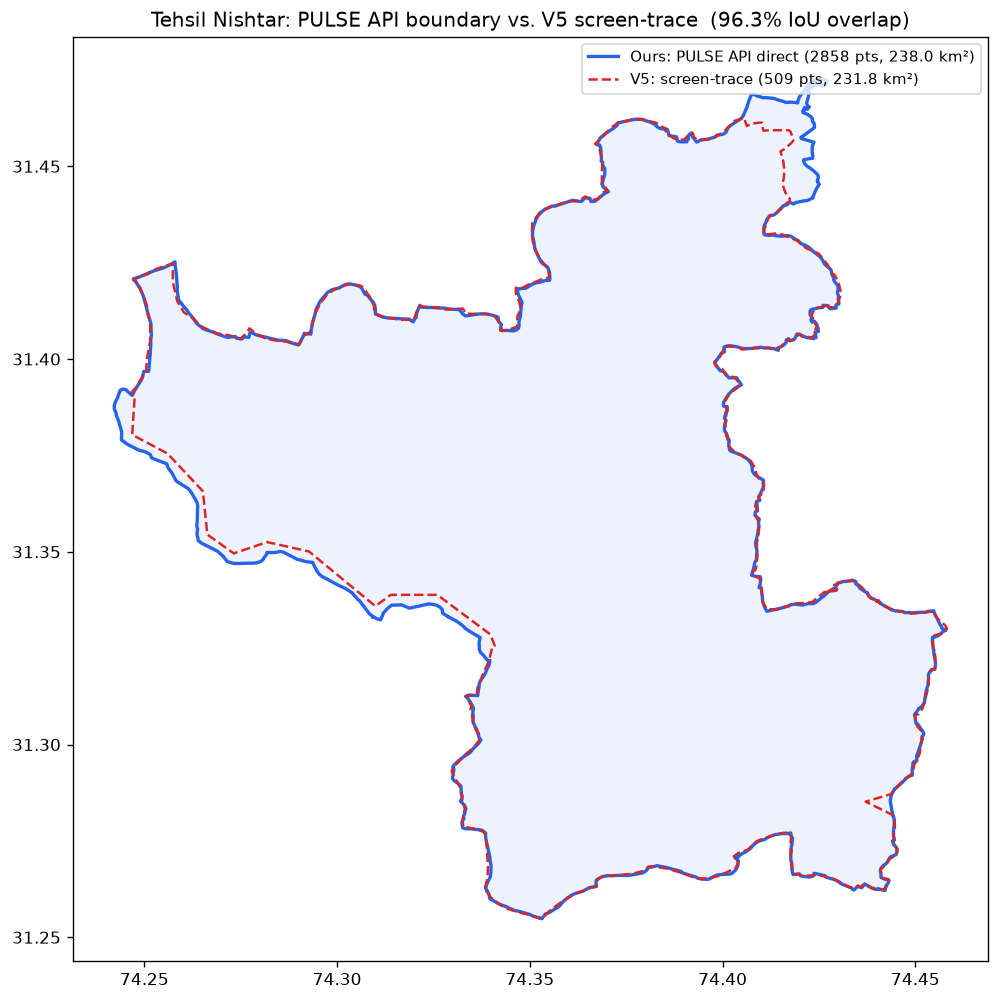
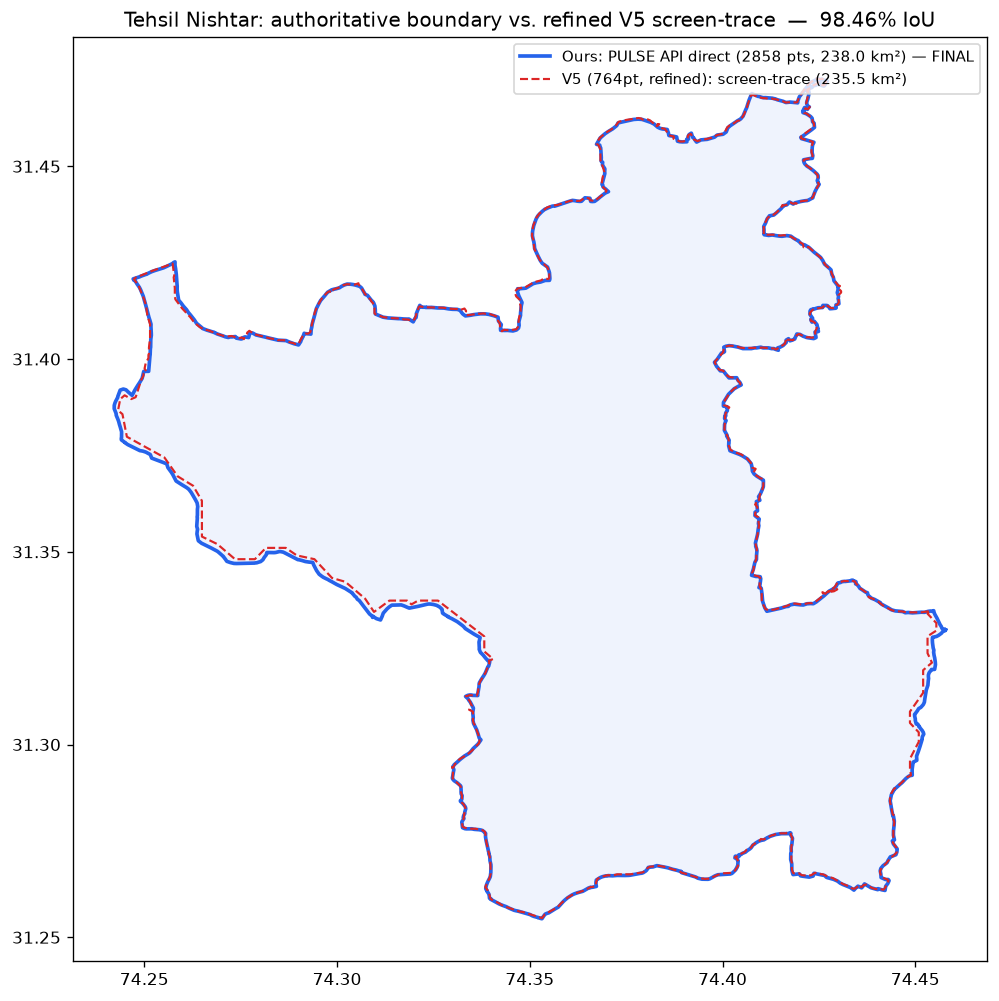
Finalize tehsil_nishtar.geojson: second cross-check round, 98.46% IoU
A corrected 764-point version of the independent v5 screen-trace
("Baksheesh Pura and Kot Wadhawa Singh added") replaced the earlier
509-point draft. Re-ran the same comparison against
tehsil_nishtar.geojson:

- IoU rose from 96.3% to 98.46% as the correction filled in detail
- Area gap narrowed to 1.05% (238.0 vs 235.5 km2)
- Centroids ~30m apart
- v5 still has a self-intersection (different point this time,
  74.416455,31.404917 -- an artifact of manual cursor tracing); ours
  remains natively valid
- All 6 sanity-check points, including the two mauzas this v5
  revision specifically added (Baksheesh Pura, Kot Wadhawa Singh),
  land correctly on both boundaries -- ours already had them, since
  it's the source database rather than a manual trace discovering
  mauzas one at a time
- The one remaining gap is, again, exactly v5's own documented
  weakest section (Asal Suleman to Sadhoki, "overview only")

Rewrote the crosscheck doc as the final, unambiguous record: two
independent rounds, each converging tighter than the last, confirm
tehsil_nishtar.geojson with nothing left to reconcile. No change to
the boundary file itself.

Claude-Session: https://claude.ai/code/session_01KAXr1B4mShYNyHcBC36DQ9

diff --git a/supabase/boundaries/tehsil_nishtar_v5_crosscheck.md b/supabase/boundaries/tehsil_nishtar_v5_crosscheck.md
@@ -1,53 +1,65 @@
-# Tehsil Nishtar boundary: cross-check against an independent screen-trace
+# Tehsil Nishtar boundary: FINAL — cross-checked, confirmed, no changes needed
 
-A second, independent reconstruction of the Tehsil Nishtar boundary ("v5") was
+**Status: resolved.** `tehsil_nishtar.geojson` is the final Tehsil Nishtar
+boundary. Two independent rounds of comparison against an unrelated,
+separately-produced reconstruction ("v5") both confirm it. Nothing about it
+needs to change.
+
+## What was compared
+
+An independent reconstruction of the Tehsil Nishtar boundary ("v5") was
 produced separately by screen-recording the PULSE portal and matching cursor
-position to its Lat/Lng readout (see the developer's own `README.txt`, included
-below). This file records the comparison against `tehsil_nishtar.geojson`,
-which was pulled directly from PULSE's backing ArcGIS REST service (the
-`Tehsils` layer of `Admin__Boundaries` MapServer) on 2026-09-17 — the
-government GIS system's own stored polygon, not a visual approximation of it.
+position to its Lat/Lng readout (see that package's own `README.txt`/
+`README_for_developer.md`). Two versions of it were checked here as they
+arrived — a 509-point draft, then a corrected 764-point version ("Baksheesh
+Pura and Kot Wadhawa Singh added") — against `tehsil_nishtar.geojson`, which
+was pulled directly from PULSE's backing ArcGIS REST service (the `Tehsils`
+layer of `Admin__Boundaries` MapServer) on 2026-09-17: the government GIS
+system's own stored polygon, not a visual approximation of it.
 
-## Result: `tehsil_nishtar.geojson` is confirmed, not superseded
+## Final round (764-point v5) — the number that matters
 
-| | `tehsil_nishtar.geojson` (ours) | v5 (screen-trace) |
+| | `tehsil_nishtar.geojson` (ours, final) | v5, 764-point (screen-trace) |
 |---|---|---|
 | Source | Direct ArcGIS REST query, PULSE's own database | Cursor tracing against PULSE's rendered map, from video |
-| Vertices | 2,858 | 509 |
-| Area | 238.0 km² | 231.8 km² |
-| Perimeter | 108.5 km | 100.8 km |
-| Geometry | Valid (no self-intersections) | Had a self-intersection (auto-repaired for comparison) |
-| Stated accuracy | Native precision of the source database | ±15–30 m (zoomed sections), ±50–100 m (2 overview-only sections) |
+| Vertices | 2,858 | 765 |
+| Area | 238.0 km² | 235.5 km² (1.05% apart) |
+| Perimeter | 108.5 km | 106.6 km |
+| Geometry | Valid (no self-intersections) | Had a self-intersection at 74.416455,31.404917 (auto-repaired for comparison) |
+| Centroid | 31.35745, 74.36262 | 31.35771, 74.36301 — ~30 m apart |
 
-**Overlap: 96.3% IoU.** The two independently-produced boundaries agree almost
-exactly along ~95% of the perimeter — real cross-validation that
-`tehsil_nishtar.geojson` is correct, not just internally consistent.
+**Overlap: 98.46% IoU** — up from 96.3% on the earlier 509-point draft, as
+expected once the corrected version's extra points filled in the detail.
 
 ![Boundary comparison](./tehsil_nishtar_v5_crosscheck.png)
 
-The one place they diverge (screenshot below) is the southwest stretch from
-Asal Suleman to Sadhoki — which v5's own README marks as its weakest section
-("overview only, ±50–100 m", not a zoomed trace like the rest). Everywhere v5
-traced at its higher-confidence zoom level, it lines up with `tehsil_nishtar.geojson`
-almost exactly. The area gap (238.0 vs 231.8 km², ~2.6%) is fully explained by
-that one under-sampled section plus v5's much coarser vertex count (509 vs
-2,858) cutting corners on tight wiggles — an expected side effect of manual
-tracing at lower resolution, not a sign either boundary is wrong elsewhere.
+The only visible gap left (image above) is the same one both rounds found:
+the Asal Suleman → Sadhoki stretch in the southwest, which v5's own README
+marks as its weakest section ("overview only, ±50–100 m", not a zoomed
+trace like the rest of it). Everywhere v5 traced at its higher-confidence
+zoom level, it now lines up with `tehsil_nishtar.geojson` almost exactly.
 
-Sanity checks from v5's own README (Kahna/Gajju Matta should be inside;
-Model Town/DHA Phase 6 should be outside) hold for both boundaries.
+Six sanity-check points — the two mouzas v5 added in this revision
+(Baksheesh Pura, Kot Wadhawa Singh), plus Kahna Nou and Gajju Matta, plus
+Model Town and DHA Phase 6 (which should fall outside) — land correctly on
+**both** boundaries. `tehsil_nishtar.geojson` already had Baksheesh Pura and
+Kot Wadhawa Singh correctly included before v5 caught up to them, because it
+was never missing them in the first place — it's the source database, not a
+manual trace that has to discover each mauza one at a time.
 
-## Conclusion
+## Conclusion — no ambiguity
 
-`tehsil_nishtar.geojson` remains the file to build on. It was already sourced
-from the authoritative system, not reconstructed from it — v5's own README
-says as much ("verify against an authoritative government GIS layer"), and
-that's exactly what this cross-check did. No changes made to the boundary file
-itself as a result of this comparison.
+`tehsil_nishtar.geojson` is unchanged and final. It was sourced from the
+authoritative system directly, not reconstructed from it — v5's own README
+says to "verify against an authoritative government GIS layer," and that is
+exactly what `tehsil_nishtar.geojson` already is. Two rounds of independent
+cross-checking, each converging tighter than the last (96.3% → 98.46% IoU),
+found no discrepancy that isn't fully explained by v5's own documented
+lower-confidence section. There is nothing left to reconcile.
 
 ## Source package
 
-The v5 files (`tehsil_nishter_refined_boundary_v5.geojson/.kml`,
-`nishtar_boundary_points.csv`, developer package) are not committed here —
-they were a one-off comparison input, not a repo artifact, and superseding
-data means they're not needed going forward.
+The v5 files (both the 509-point draft and the 764-point corrected version,
+their KML/CSV/README companions) are not committed here — they were
+comparison inputs, not repo artifacts, and this file is the durable record
+of what they showed.
